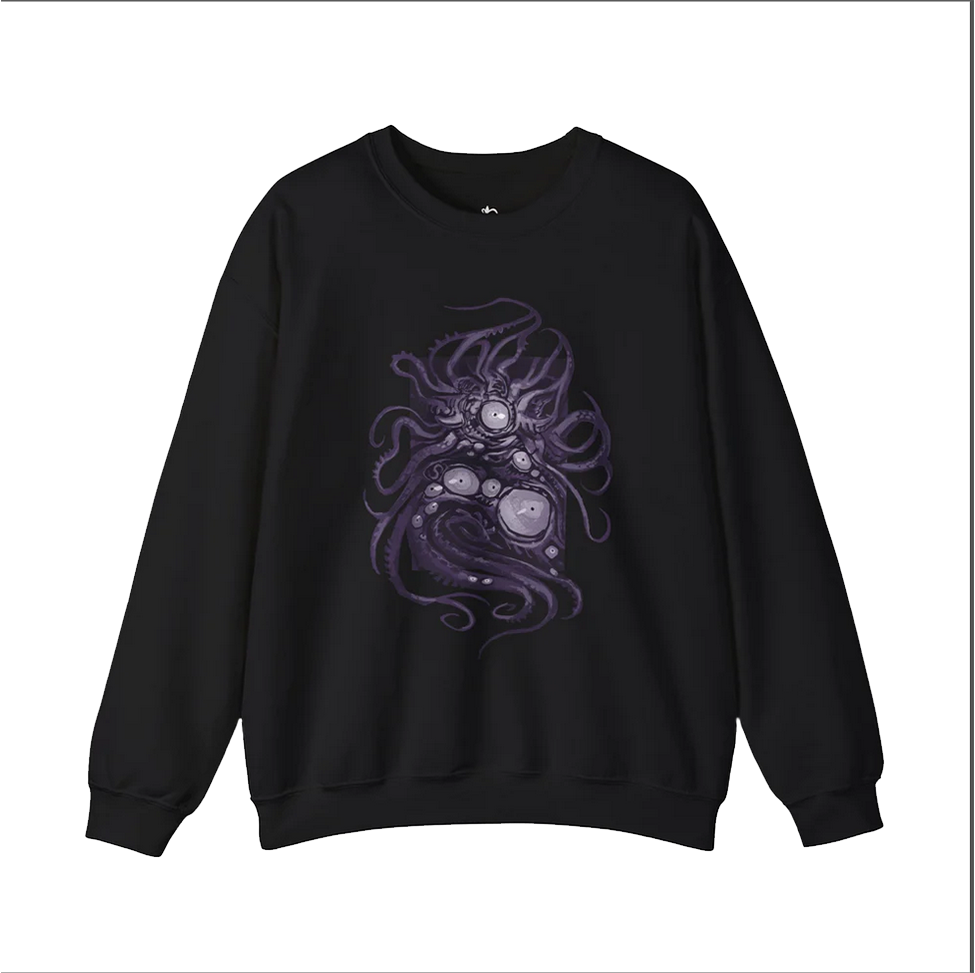
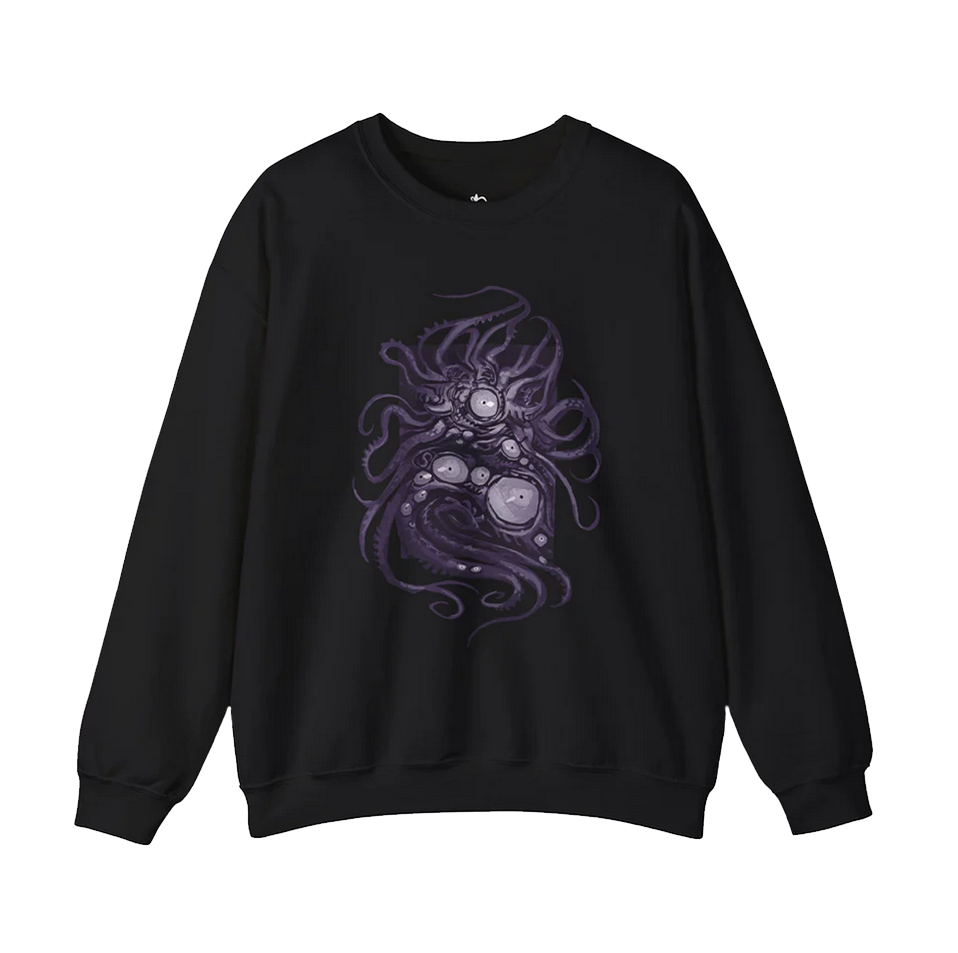
Redy to publish

diff --git a/pages/home.html b/pages/home.html
@@ -1,12 +1,20 @@
 <img id="hero" src="./assets/timearcher/Solo Logo Final_Full Name Logo.svg" alt="">
 
-<div class="linkRow">
+<div class="linkRow" style="display: none;">
 	<a href="" target="_blank">
 		<img src="./assets/tumblr.svg" alt="">
 	</a>
 	<a href="" target="_blank">
 		<img src="./assets/x.svg" alt="">
 	</a>
+</div>
+
+<div id="details">
+
+	<div id="intro">
+		Time Archer Studios is a small multi-media production studio focused on animations and other creative projects. We put creatives first by ensuring our partners have full control of the whimsical and diverse stories they want to tell. Proudly queer and disabled owned!
+	</div>
+
 </div>
 
 <h1>Check out our projects:</h1>
@@ -36,6 +44,17 @@
 
 </div>
 
+<div id="details">
+
+	<h1>About us</h1>
+
+	<div id="about" style="text-align: left;">
+		<p>Time Archer Studios is dedicated to making the kind of media we want to see in the world without compromising on our core value of keeping the media we create within the hands of the independent creatives we work with. We aim to use our resources to build a community of talented artists and storytellers who want to make animations, audio dramas, and other works that are unapologetically their own while maintaining full creative rights. Keeping it small means that everyone gets to play a part in the process and apply their unique perspectives and expertise in as many ways as they want to contribute via our open floor feedback production style. </p>
+		<p>Time Archer Studios was co-founded by Melanie Archer (she/he), a trans voice actor and the Director of <a class="pageLink" href="?page=voftdubs">VOFT Dubs</a>, and Ari Ceppi (they/them) a queer and disabled production specialist and the Showrunner/Executive Producer of <a class="pageLink" href="?page=soundpage">Project Soundpage</a>.</p>
+	</div>
+
+</div>
+
 <style>
 
 	#hero {
@@ -44,6 +63,25 @@
 		max-width: 100%;
 		margin: 2em auto;
 		filter: invert(1)
+	}
+
+	#details {
+		max-width: 800px;
+		margin: 1em auto;
+
+		div {
+			background-color: black;
+			border: solid white;
+			padding: 1em 2em;
+
+			p {
+				text-indent: 2em;
+			}
+
+			a {
+				color: var(--ta-lilac);
+			}
+		}
 	}
 
 </style>

diff --git a/index.html b/index.html
@@ -13,11 +13,11 @@
 	<link rel="preconnect" href="https://fonts.gstatic.com" crossorigin>
 	<link href="https://fonts.googleapis.com/css2?family=Montserrat:ital,wght@0,100..900;1,100..900&family=MuseoModerno:ital,wght@0,100..900;1,100..900&display=swap" rel="stylesheet">
 
-	<link rel="shortcut icon" href="./assets/timearcher/timearcher_logo_outlined_MINI.png" type="image/x-icon">
+	<link rel="shortcut icon" href="./assets/timearcher/favicon.ico" type="image/x-icon">
 
 	<title>Time Archer Studios</title>
 	<meta content="Time Archer Studios" property="og:title" />
-	<meta content="An indie studio keeping creatives first!" property="og:description" />
+	<meta content="Time Archer Studios is a small multi-media production studio focused on animations and other creative projects. We put creatives first by ensuring our partners have full control of the whimsical and diverse stories they want to tell. Proudly queer and disabled owned!" property="og:description" />
 	<meta content="https://timeacher.neocities.org" property="og:url" />
 	<meta content="https://timeacher.neocities.org/assets/timearcher/timearcher_logo_outlined_MINI.png" property="og:image" />
 	<meta content="#ea4227" data-react-helmet="true" name="theme-color" />
@@ -44,7 +44,7 @@
           <li><a class="pageLink" href="?page=contact">Contact Us</a></li>
 		</ul>
 
-		<div class="linkRow index">
+		<div class="linkRow index" style="display: none;">
 			<a href="" target="_blank">
 				<img src="./assets/tumblr.svg" alt="">
 			</a>
@@ -69,11 +69,8 @@
 
 	<script src="./sahcon.js"></script>
 
-	<div style="display: none;">
-		<img src="./assets/soundpage/background.png" alt="">
-		<img src="./assets/soundpage/banner.png" alt="">
-		<img src="./assets/voft/VOFT BANNER BACKGROUND.png" alt="">
-		<img src="./assets/ghost/gtbg1.png" alt="">
+	<div style="display: none; 
+	background-image: url(./assets/soundpage/background.png), url(./assets/ghost/gtbg1.png), url(./assets/voft/background.png), url(./assets/soundpage/banner.png);">
 	</div>
 	
 </body>

diff --git a/pages/contact.html b/pages/contact.html
@@ -1,1 +1,32 @@
 <h1>Contact</h1>
+
+<div id="details">
+
+	<div id="info">
+		You can contact Time Archer Studios by emailing <a href="mailto:timearcherstudios@gmail.com">timearcherstudios@gmail.com</a>
+	</div>
+
+</div>
+
+<style>
+
+	#details {
+		max-width: 800px;
+		margin: 1em auto;
+
+		div {
+			background-color: black;
+			border: solid white;
+			padding: 1em 2em;
+
+			p {
+				text-indent: 2em;
+			}
+
+			a {
+				color: var(--ta-lilac);
+			}
+		}
+	}
+
+</style>

diff --git a/pages/voftdubs.html b/pages/voftdubs.html
@@ -39,7 +39,7 @@
 <style>	
 
 	#content {
-		background-image: url("./assets/voft/VOFT BANNER BACKGROUND.png");
+		background-image: url("./assets/voft/background.png");
 		background-size: cover;
 		background-position: center;
 		color: var(--ta-black);
@@ -66,6 +66,7 @@
 	#youtubePreview {
 		border-radius: .5em;
 		outline: #ff7858 solid 10px;
+		background-color: #ff7858;
 		aspect-ratio: 16 / 9;
 		max-width: 100%;
 		width: 650px;

diff --git a/pages/fanworks.html b/pages/fanworks.html
@@ -1,6 +1,6 @@
 <h1>Check out our Fanworks</h1>
 
-<p>[What are fanworks?]</p>
+<p>Our Fanworks are licensed projects that take inspiration from or are direct adaptations of pre-existing media.</p>
 
 <div class="preview-hub">
 

diff --git a/styles.css b/styles.css
@@ -310,7 +310,7 @@ body {
 }
 
 #preview-voft {
-	background-image: url(./assets/voft/VOFT\ BANNER\ BACKGROUND.png);
+	background-image: url(./assets/voft/background.png);
 }
 
 #preview-sound {

diff --git a/pages/originals.html b/pages/originals.html
@@ -1,6 +1,6 @@
 <h1>Originals</h1>
 
-<p>[What are Originals?]</p>
+<p>Our Originals are completely new stories from the minds of our creative team.</p>
 
 <div class="preview-hub">
 
